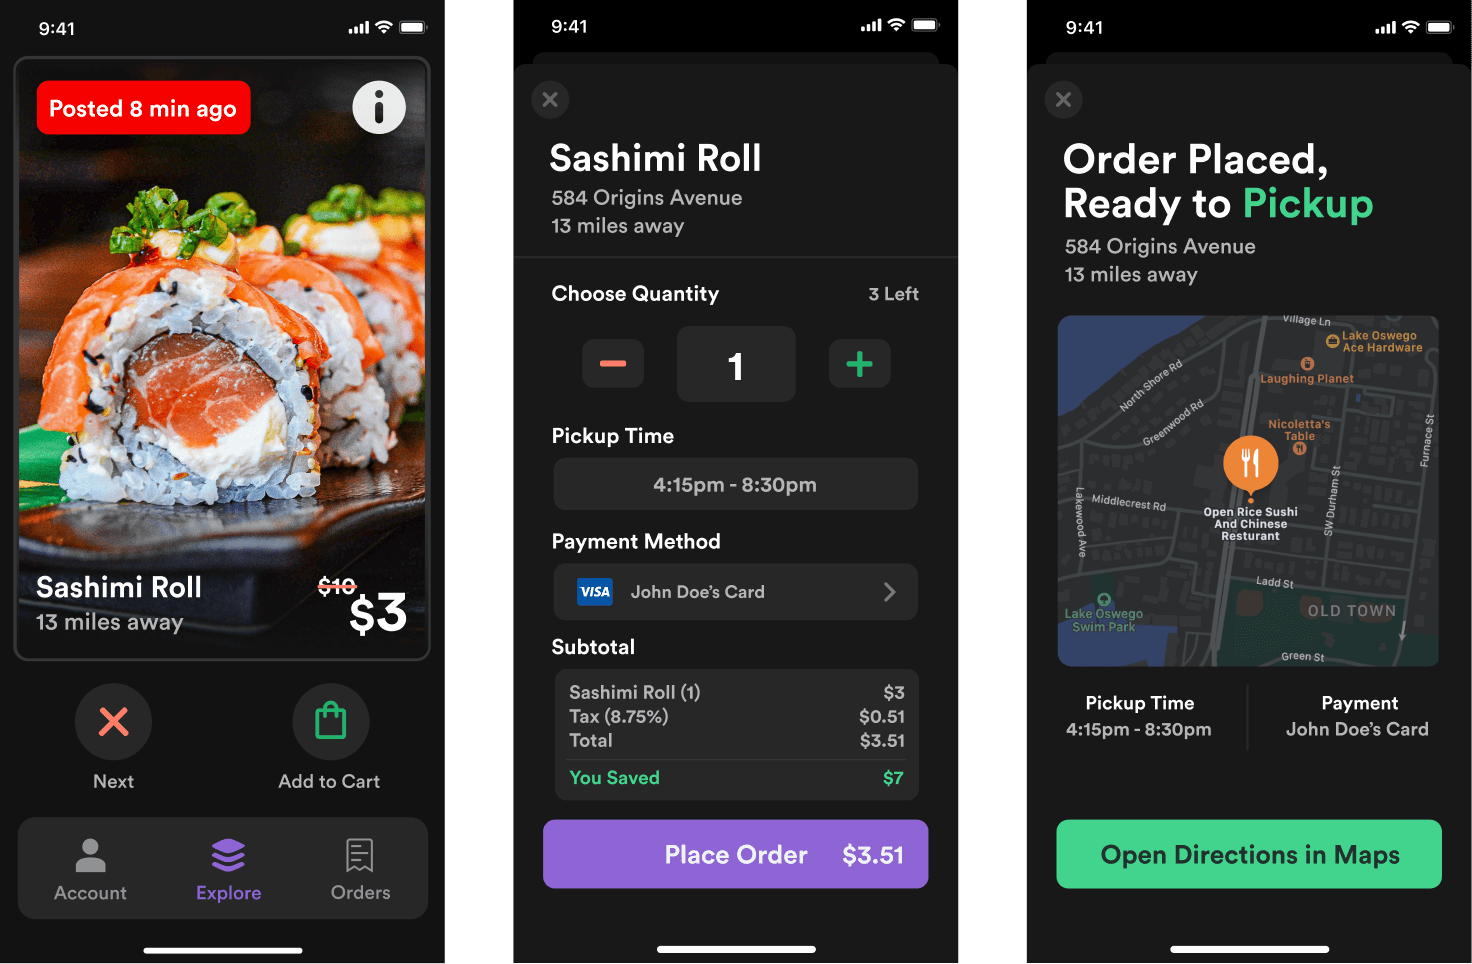
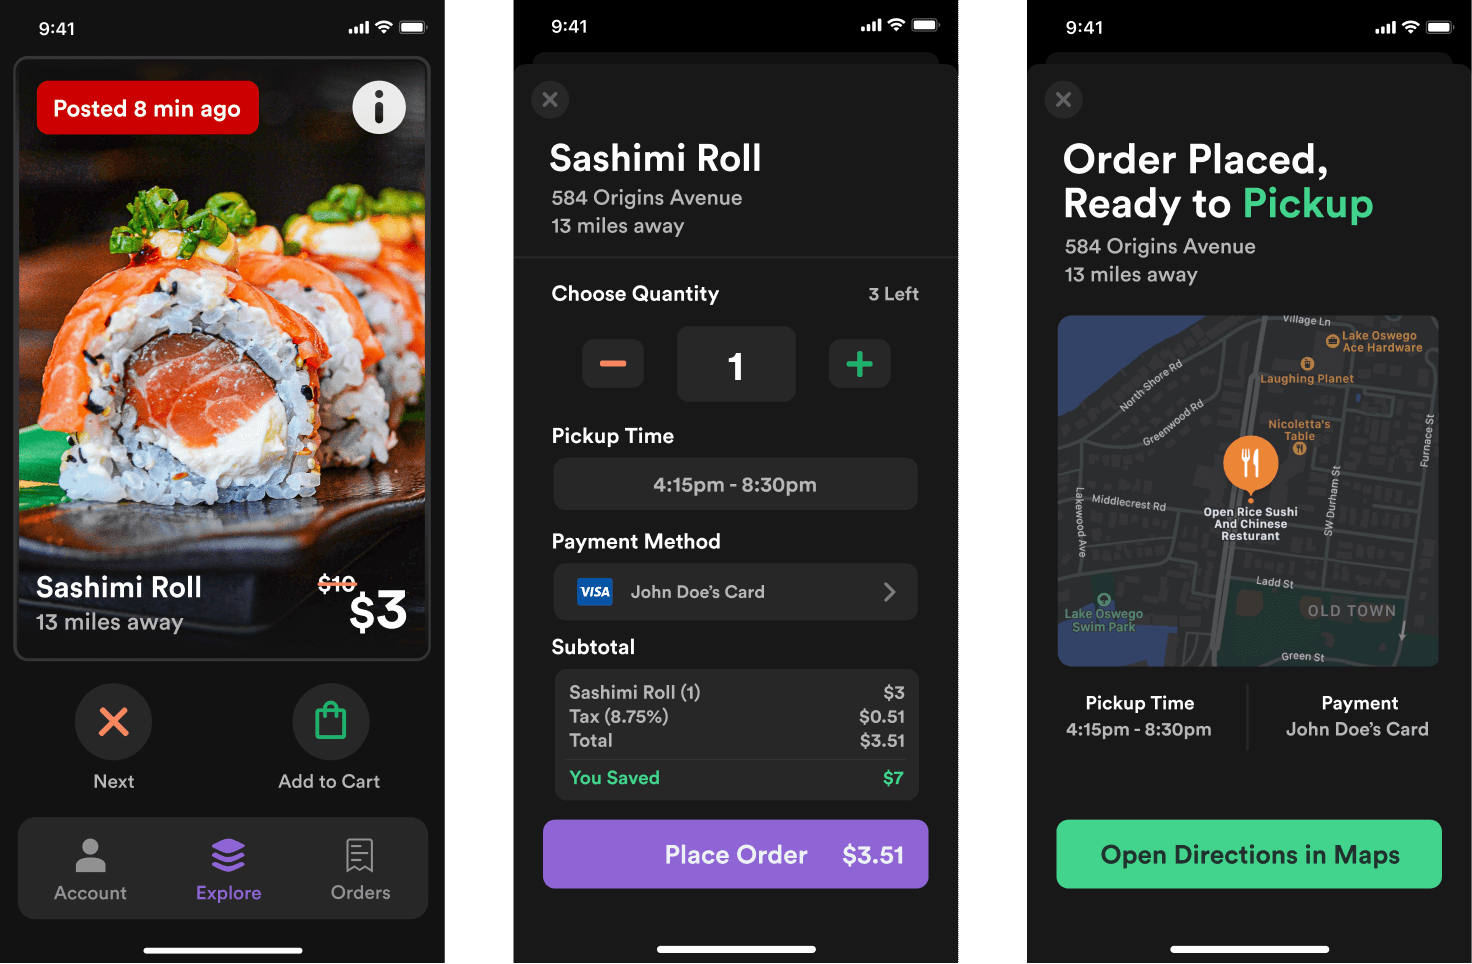
prov red mins ago color change

Changed region(s): [[0.0, 0.0622, 0.1875, 0.1556], [0.0, 0.9959, 0.3125, 1.0], [0.2188, 0.5913, 0.2812, 0.6535]]

diff --git a/src/components/layout.css b/src/components/layout.css
@@ -157,7 +157,7 @@ html{font-family:sans-serif;-ms-text-size-adjust:100%;-webkit-text-size-adjust:1
     text-transform: uppercase;
 
     display: inline-block;
-            padding: 2px 14px;
+            padding: 1.6px 14px;
             font-size: 14px;
             font-weight: bold;
             text-align: center;

diff --git a/src/components/Modules/provision.module.css b/src/components/Modules/provision.module.css
@@ -288,7 +288,7 @@
   font-family: 'Circular Std', sans-serif;
   font-size: 15px;
   line-height: 40px;
-  color: #ABABAB;
+  color: #626262;
   font-weight: 500;
 }
 
